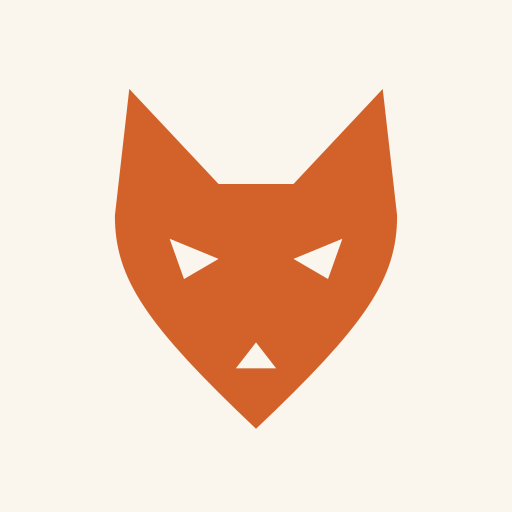
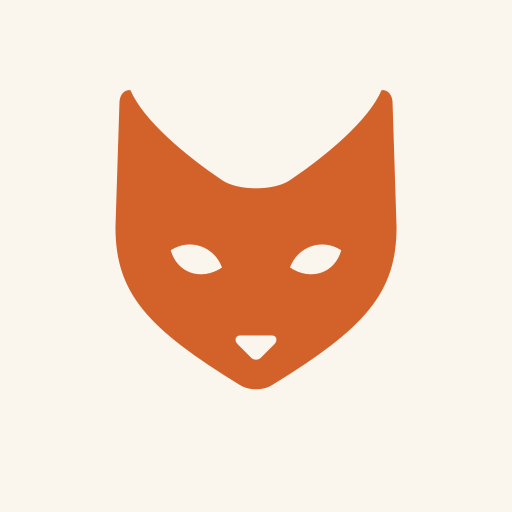
狐狸標記重畫：寬臉短吻、葉形眼，而且本來就歪著頭
站主說現在有的巧思（變色、歪頭）都喜歡，但整體不夠可愛優雅精緻。

上一版的問題不在「不夠圓」，在比例與表情：
耳朵佔 26% 的高度、臉收成一個刀尖、眼睛是往內下指的三角形 ——
三角形眼睛讀起來是兇的。

所以改的是比例：
- 頭型放寬到接近正方（48.8 × 52.2），下巴從 y=62 收到 55.4
- 耳朵內緣改成微凹的曲線，不再是耳尖直接拉到額頭的硬 V
- 眼睛改成葉形，外眼角略高（外角低是難過，內角低是生氣）
- 鼻子改成小一點的圓角倒三角

過程中試過加內耳，站主看過之後不要 —— 少了那兩塊更安靜，合這個站。
定案前又退回去改了一次耳朵：臉放寬之後 76px 下讀起來像貓不像狐，
耳尖從 y=4.5 拉到 3.2、往外挪到 x=10.2／53.8 才回來。

歪頭反過來了（站主選的）：靜止 −5°、游標移過去轉回 0° 並放大 1.06。
以前是靜止端正、滑過去才歪，所以沒有游標的人從來沒看過那個巧思。
量到的：rest −5°，hover 0°／scale 1.06（1000px 寬，hover: hover 成立）。

順帶收攏一份即將分岔的複本：那組路徑本來在 FoxMark.astro、
make-icons.mjs、public/favicon.svg **各抄一份**，沒有東西在守它們一致。
現在只有 src/config/fox-mark.ts 一份，favicon.svg 改由 npm run icons 產生。
（跟 site.ts 那三行分享圖文案第 6 輪〔第五十三圈〕收攏的理由一樣。）
這一步還沒有檢查在守，記進 TODO 了。

verify:all 六道全綠、test:tools exit 0。

diff --git a/src/config/fox-mark.ts b/src/config/fox-mark.ts
@@ -1,0 +1,58 @@
+/**
+ * 狐狸標記的幾何。
+ *
+ * 為什麼要單獨一個檔案：這組路徑同時有三個地方在用 ——
+ * `FoxMark.astro`（站上）、`scripts/make-icons.mjs`（PNG 圖示與分享圖）、
+ * 還有 `public/favicon.svg`。2026-09-09 要改設計之前先數過，
+ * 那時候是**三份手抄的複本**，沒有任何東西在守它們一致。
+ *
+ * 那種分岔特別安靜：改了站上那一份、忘了另外兩份，瀏覽器分頁上的小圖示
+ * 就會一直是舊的狐狸，而 PNG 是二進位，任何掃字串的檢查都看不進去。
+ * （`site.ts` 裡那三行分享圖文案在第 6 輪〔第五十三圈〕因為一模一樣的理由
+ * 收攏過一次，只是當時沒有一起收這幾條路徑。）
+ *
+ * 所以現在 `public/favicon.svg` 也是 `npm run icons` 產生的，不要手改。
+ *
+ * ## 這一版在畫什麼（2026-09-09）
+ *
+ * 上一版是一個瘦長的楔形：耳朵佔了 26% 的高度、臉收成一個刀尖、
+ * 眼睛是往內下指的三角形 —— 三角形眼睛讀起來是**兇的**。
+ * 站主要的是「可愛、優雅、精緻」，所以改的是比例不是把角都磨掉：
+ *
+ * - 頭型放寬到接近正方（48.8 × 52.2），吻收短（下巴從 y=62 收到 55.4）
+ * - 耳朵的內緣改成微凹的曲線，不再是從耳尖直接拉到額頭的硬 V
+ * - 眼睛改成葉形，外眼角略高（外角低是難過，內角低是生氣）
+ * - 鼻子改成圓角的倒三角，小一點
+ *
+ * 中間試過加內耳（兩隻耳朵本來是兩片實心色塊），站主看過之後不要 ——
+ * 少了那兩塊，整體更安靜，比較合這個站。
+ *
+ * 定案前還退回去改過一次耳朵：把臉放寬、吻收短之後，76px 下整隻讀起來
+ * **像貓不像狐** —— 因為耳朵變得又窄又直，而狐狸的耳朵是大三角。
+ * 耳尖從 y=4.5 拉到 3.2、往外挪到 x=10.2／53.8，狐狸味才回來。
+ */
+
+/** 所有路徑都畫在這個尺寸的正方格子上 */
+export const FOX_VIEWBOX = 64;
+
+/** 頭的輪廓：兩隻耳朵 ＋ 臉，一條封閉路徑 */
+export const FOX_HEAD =
+  'M10.2 3.2 C9.2 3.1 8.4 3.9 8.3 5.2 L7.6 27 ' +
+  'C7.6 38.5 13.2 44.6 29.2 54.4 C30.8 55.4 33.2 55.4 34.8 54.4 ' +
+  'C50.8 44.6 56.4 38.5 56.4 27 L55.7 5.2 C55.6 3.9 54.8 3.1 53.8 3.2 ' +
+  'C51.6 8.4 44.2 14.6 37.8 18.9 C35 20.7 29 20.7 26.2 18.9 ' +
+  'C19.8 14.6 12.4 8.4 10.2 3.2 Z';
+
+/** 左眼。葉形，外眼角略高 */
+export const FOX_EYE_L = 'M17.2 31 C20.6 28.8 24.8 30.4 26.1 34 C22.5 36.4 18.3 35 17.2 31 Z';
+
+/** 右眼。左眼對 x=32 鏡射 */
+export const FOX_EYE_R = 'M46.8 31 C43.4 28.8 39.2 30.4 37.9 34 C41.5 36.4 45.7 35 46.8 31 Z';
+
+/** 鼻子。圓角的倒三角 */
+export const FOX_NOSE =
+  'M29.2 45.8 C28.4 45.8 28.2 46.7 28.8 47.3 L31.2 49.7 ' +
+  'C31.6 50.1 32.4 50.1 32.8 49.7 L35.2 47.3 C35.8 46.7 35.6 45.8 34.8 45.8 Z';
+
+/** 眼睛與鼻子。實心版是挖空、線條版是填色，兩邊都照這個順序畫 */
+export const FOX_FEATURES = [FOX_EYE_L, FOX_EYE_R, FOX_NOSE];

diff --git a/docs/TODO.md b/docs/TODO.md
@@ -169,6 +169,15 @@
 
 ## 工具與檢查
 
+- **`public/favicon.svg` 現在是產生的，但沒有東西在守它。**（2026-09-09）
+  狐狸的幾何本來在三個地方各抄一份（`FoxMark.astro`、`make-icons.mjs`、
+  `favicon.svg`），改設計那天才收攏到 `src/config/fox-mark.ts`，
+  而 favicon.svg 改由 `npm run icons` 產生。
+  問題是：**沒有跑 `npm run icons` 也不會有人說話**，
+  也沒有東西擋人去手改 favicon.svg —— `check:generated` 只認 PLATFORMS.md。
+  跟底下那條「`make-icons.mjs` 還手抄了四個顏色」是同一件事的兩半，
+  要做就一起做（顏色從 `tokens.css` 取，再補一個 `--check`）
+
 - **「script 造出來的元素配不到 scoped CSS」沒有東西在守。**（2026-09-09 的事故）
   `VideoFacade` 的 `.facade iframe` 被編譯成 `iframe[data-astro-cid-…]`，
   而那個 iframe 是按下播放時 `createElement` 出來的，身上沒有那個屬性 ——

diff --git a/CLAUDE.md b/CLAUDE.md
@@ -119,6 +119,12 @@ npm run build           # 建置
 改了 `platforms.data.mjs` 之後要跑 `node scripts/gen-platform-docs.mjs`
 更新 `docs/PLATFORMS.md`（那份是產生的，不要手改）。
 
+改了 `src/config/fox-mark.ts`（狐狸標記的路徑）之後要跑 `npm run icons`，
+它會重新產生五個 PNG、分享圖、**以及 `public/favicon.svg`**。
+那幾個檔案都是產生的，不要手改 —— 2026-09-09 之前那組路徑在三個地方
+各抄一份，改一份忘了別份，分頁上的小圖示會一直是舊的狐狸。
+（這一步目前**沒有檢查在守**，見 `docs/TODO.md`。）
+
 **忘記的話 `npm run check:generated` 會擋**（它在 `test:built` 裡，兩個 workflow
 都會跑）。那不只是文件整潔的問題：`platforms.data.mjs` 裡有 23 個中文字串
 **一個都沒有出現在 `dist/`**（站上只有 YouTube 一個來源），
